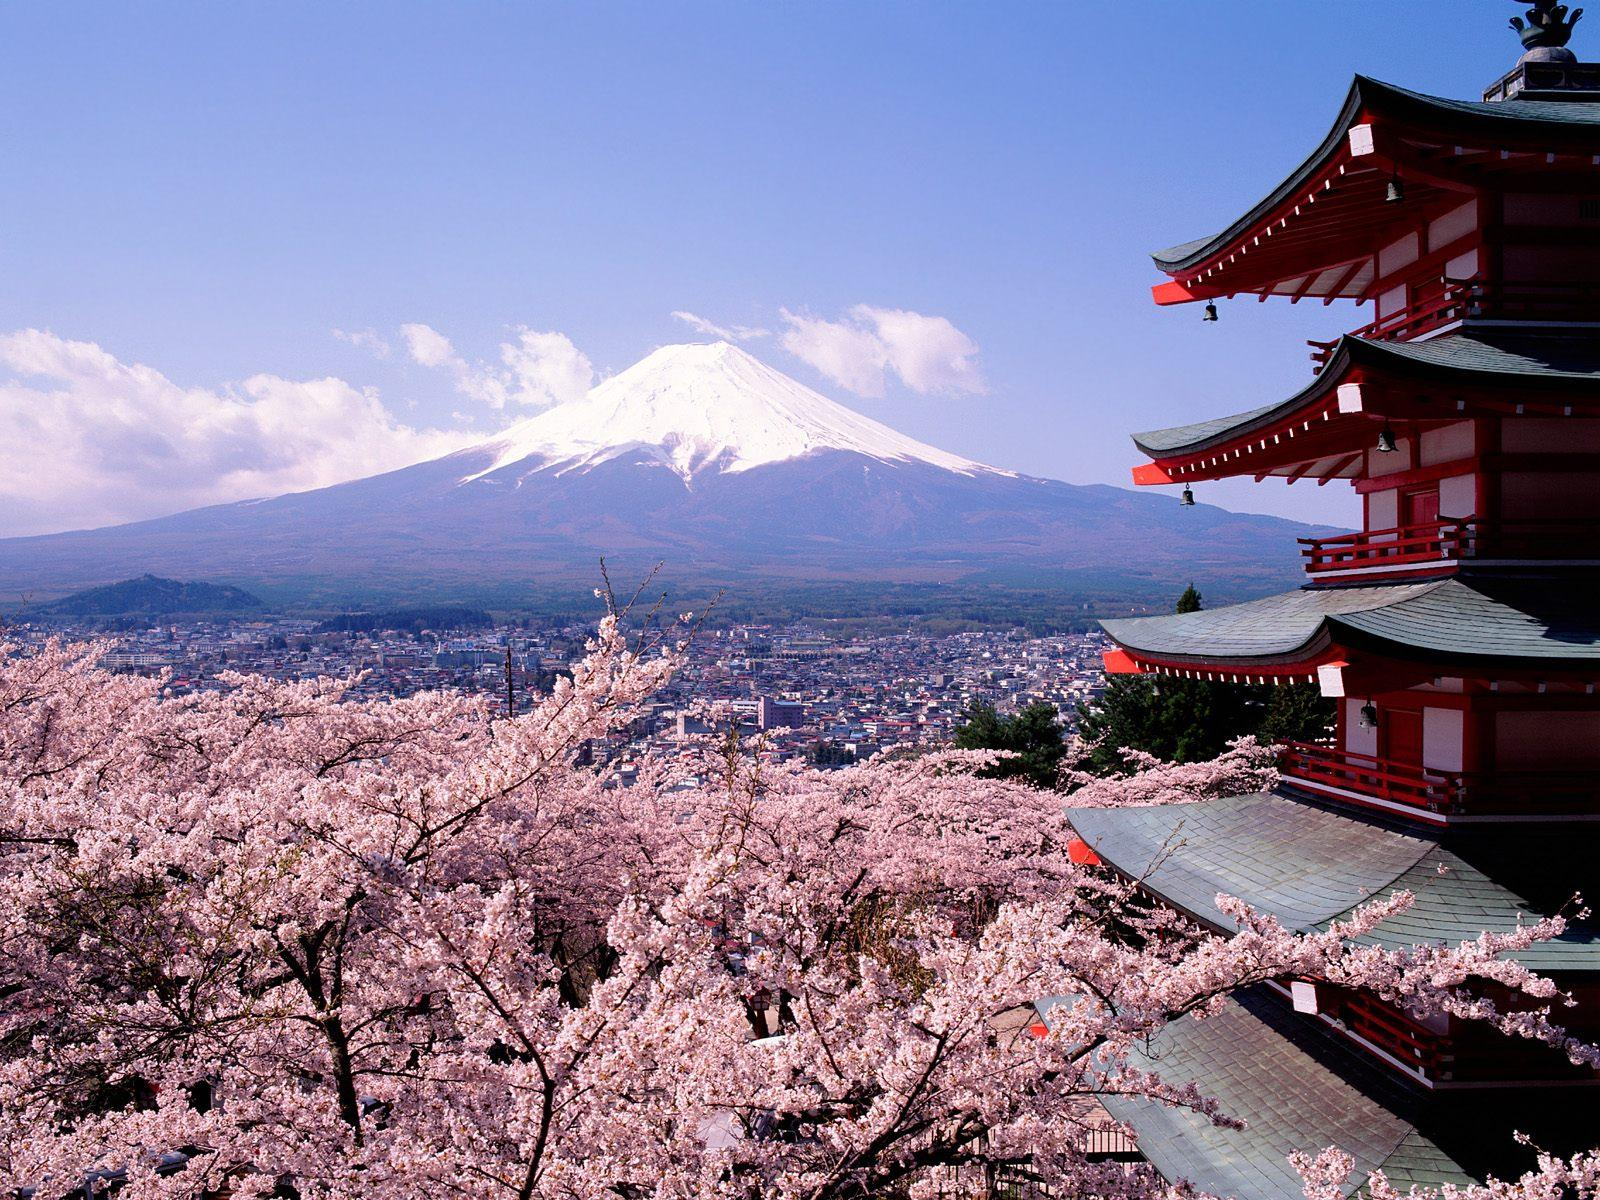
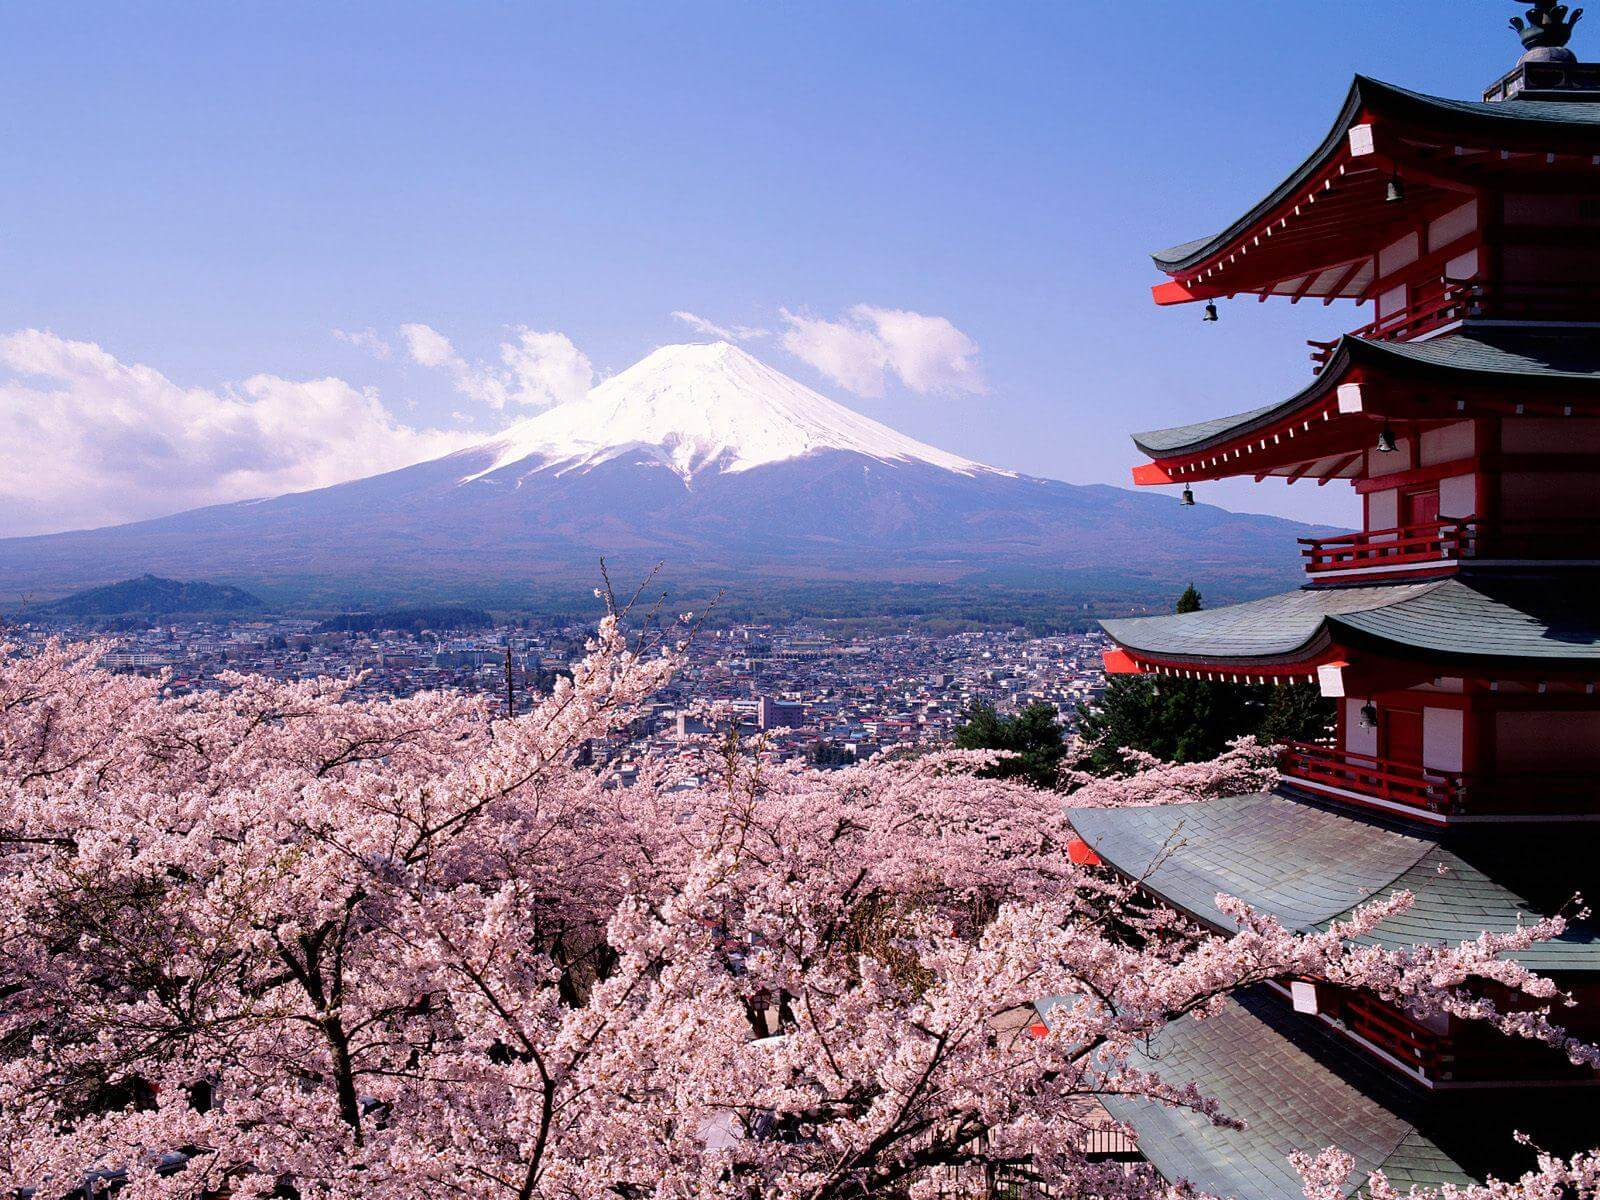
Optimized images.

diff --git a/src/components/Counter2.js b/src/components/Counter2.js
@@ -1,13 +1,20 @@
 import React from 'react'
-import Button from 'react-bootstrap/Button'
-import Form from 'react-bootstrap/Form'
-import Container from 'react-bootstrap/Container'
-import Row from 'react-bootstrap/Row'
-import Col from 'react-bootstrap/Col'
+import {
+    Col,
+    Row,
+    Button,
+    Form,
+    Container
+} from 'react-bootstrap'
 
 function AddButton(props) {
     return (
-        <Button size="lg" variant="success" block onClick={props.onClick}>
+        <Button
+            size="lg"
+            variant="success"
+            block={true}
+            onClick={props.onClick}
+        >
             +
         </Button>
     )
@@ -15,7 +22,12 @@ function AddButton(props) {
 
 function SubButton(props) {
     return (
-        <Button size="lg" variant="success" block onClick={props.onClick}>
+        <Button
+            size="lg"
+            variant="success"
+            block={true}
+            onClick={props.onClick}
+        >
             -
         </Button>
     )
@@ -23,16 +35,22 @@ function SubButton(props) {
 
 function ResetButton(props) {
     return (
-        <Button size="lg" variant="success" block onClick={props.onClick}>
+        <Button
+            size="lg"
+            variant="success"
+            block={true}
+            onClick={props.onClick}
+        >
             Reset
         </Button>
     )
 }
 
 export default function Counter2() {
-    let [state, setstate] = React.useState({
-        count: 0
-    }),
+    let [
+        state,
+        setstate
+    ] = React.useState({ count: 0 }),
         handleClick1 = function () {
             setstate({
                 count: state.count + 1
@@ -54,7 +72,12 @@ export default function Counter2() {
     return (
         <Container fluid={true}>
             <Row>
-                <Col xs={{ span: 8 }} className="mx-auto content">
+                <Col
+                    xs={{
+                        span: 8
+                    }}
+                    className="mx-auto content"
+                >
                     <h2 className="text-center text-primary">
                         React Function Component
                     </h2>
@@ -62,7 +85,12 @@ export default function Counter2() {
                         Count: {state.count}
                     </h3>
                 </Col>
-                <Col xs={{ span: 8 }} className="mx-auto content">
+                <Col
+                    xs={{
+                        span: 8
+                    }}
+                    className="mx-auto content"
+                >
                     <Form>
                         <Form.Group>
                             <SubButton onClick={() => handleClick2()} />

diff --git a/src/components/Counter1.js b/src/components/Counter1.js
@@ -2,10 +2,12 @@ import React, { Component } from 'react'
 import AddButton from './AddButton'
 import ResetButton from './ResetButton'
 import SubButton from './SubButton'
-import Form from 'react-bootstrap/Form'
-import Container from 'react-bootstrap/Container'
-import Row from 'react-bootstrap/Row'
-import Col from 'react-bootstrap/Col'
+import {
+    Col,
+    Row,
+    Form,
+    Container,
+} from 'react-bootstrap'
 
 export default class Counter extends Component {
     constructor(props) {
@@ -44,7 +46,12 @@ export default class Counter extends Component {
         return (
             <Container fluid={true}>
                 <Row>
-                    <Col xs={{ span: 8 }} className="mx-auto content">
+                    <Col
+                        xs={{
+                            span: 8
+                        }}
+                        className="mx-auto content"
+                    >
                         <h2 className="text-center text-primary">
                             React Class Component
                         </h2>
@@ -52,7 +59,12 @@ export default class Counter extends Component {
                             Count: {this.state.count}
                         </h3>
                     </Col>
-                    <Col xs={{ span: 8 }} className="mx-auto content">
+                    <Col
+                        xs={{
+                            span: 8
+                        }}
+                        className="mx-auto content"
+                    >
                         <Form>
                             <Form.Group>
                                 <SubButton onClick={() => this.handleClick2()} />

diff --git a/public/index.html b/public/index.html
@@ -6,7 +6,7 @@
   <link rel="icon" href="%PUBLIC_URL%/favicon.ico" />
   <meta name="viewport" content="width=device-width, initial-scale=1" />
   <meta name="theme-color" content="#000000" />
-  <meta name="description" content="Web site created using create-react-app" />
+  <meta name="description" content="Counter App built using React.js" />
   <link rel="apple-touch-icon" href="logo192.png" />
   <!--
       manifest.json provides metadata used when your web app is installed on a
@@ -25,7 +25,7 @@
   <link href="https://fonts.googleapis.com/css?family=Aladin|Merienda|Pacifico&display=swap" rel="stylesheet">
   <link rel="stylesheet" href="https://stackpath.bootstrapcdn.com/bootstrap/4.3.1/css/bootstrap.min.css"
     integrity="sha384-ggOyR0iXCbMQv3Xipma34MD+dH/1fQ784/j6cY/iJTQUOhcWr7x9JvoRxT2MZw1T" crossorigin="anonymous" />
-  <title>React App</title>
+  <title>Counter App</title>
 </head>
 
 <body>

diff --git a/src/components/ResetButton.js b/src/components/ResetButton.js
@@ -1,10 +1,17 @@
 import React, { Component } from 'react'
-import Button from 'react-bootstrap/Button'
+import {
+    Button
+} from 'react-bootstrap'
 
 export default class ResetButton extends Component {
     render() {
         return (
-            <Button variant="info" size="lg" block onClick={this.props.onClick}>
+            <Button
+                variant="info"
+                size="lg"
+                block={true}
+                onClick={this.props.onClick}
+            >
                 Reset
             </Button>
         )

diff --git a/src/components/AddButton.js b/src/components/AddButton.js
@@ -1,10 +1,17 @@
 import React, { Component } from 'react'
-import Button from 'react-bootstrap/Button'
+import {
+    Button
+} from 'react-bootstrap'
 
 export default class AddButton extends Component {
     render() {
         return (
-            <Button variant="info" size="lg" block onClick={this.props.onClick}>
+            <Button
+                variant="info"
+                size="lg"
+                block={true}
+                onClick={this.props.onClick}
+            >
                 +
             </Button>
         )

diff --git a/src/components/SubButton.js b/src/components/SubButton.js
@@ -1,10 +1,17 @@
 import React, { Component } from 'react'
-import Button from 'react-bootstrap/Button'
+import {
+    Button
+} from 'react-bootstrap'
 
 export default class SubButton extends Component {
     render() {
         return (
-            <Button variant="info" size="lg" block onClick={this.props.onClick}>
+            <Button
+                variant="info"
+                size="lg"
+                block={true}
+                onClick={this.props.onClick}
+            >
                 -
             </Button>
         )
